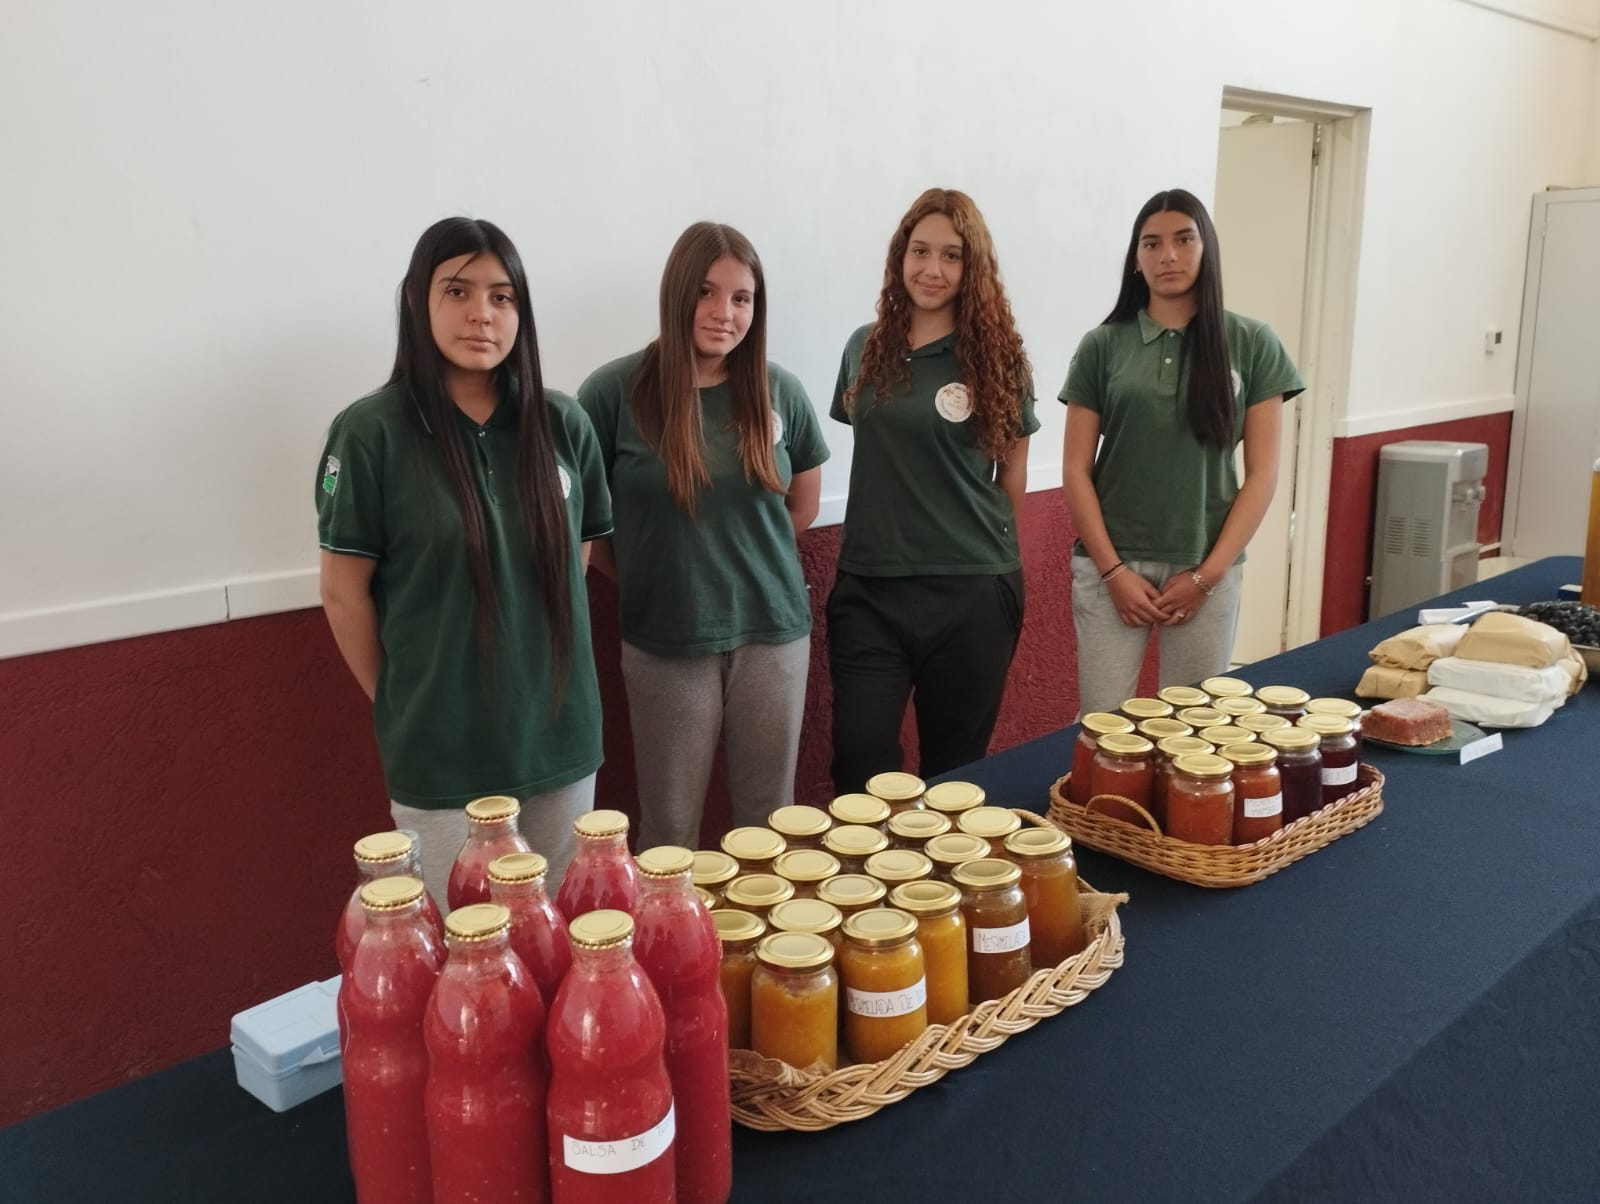
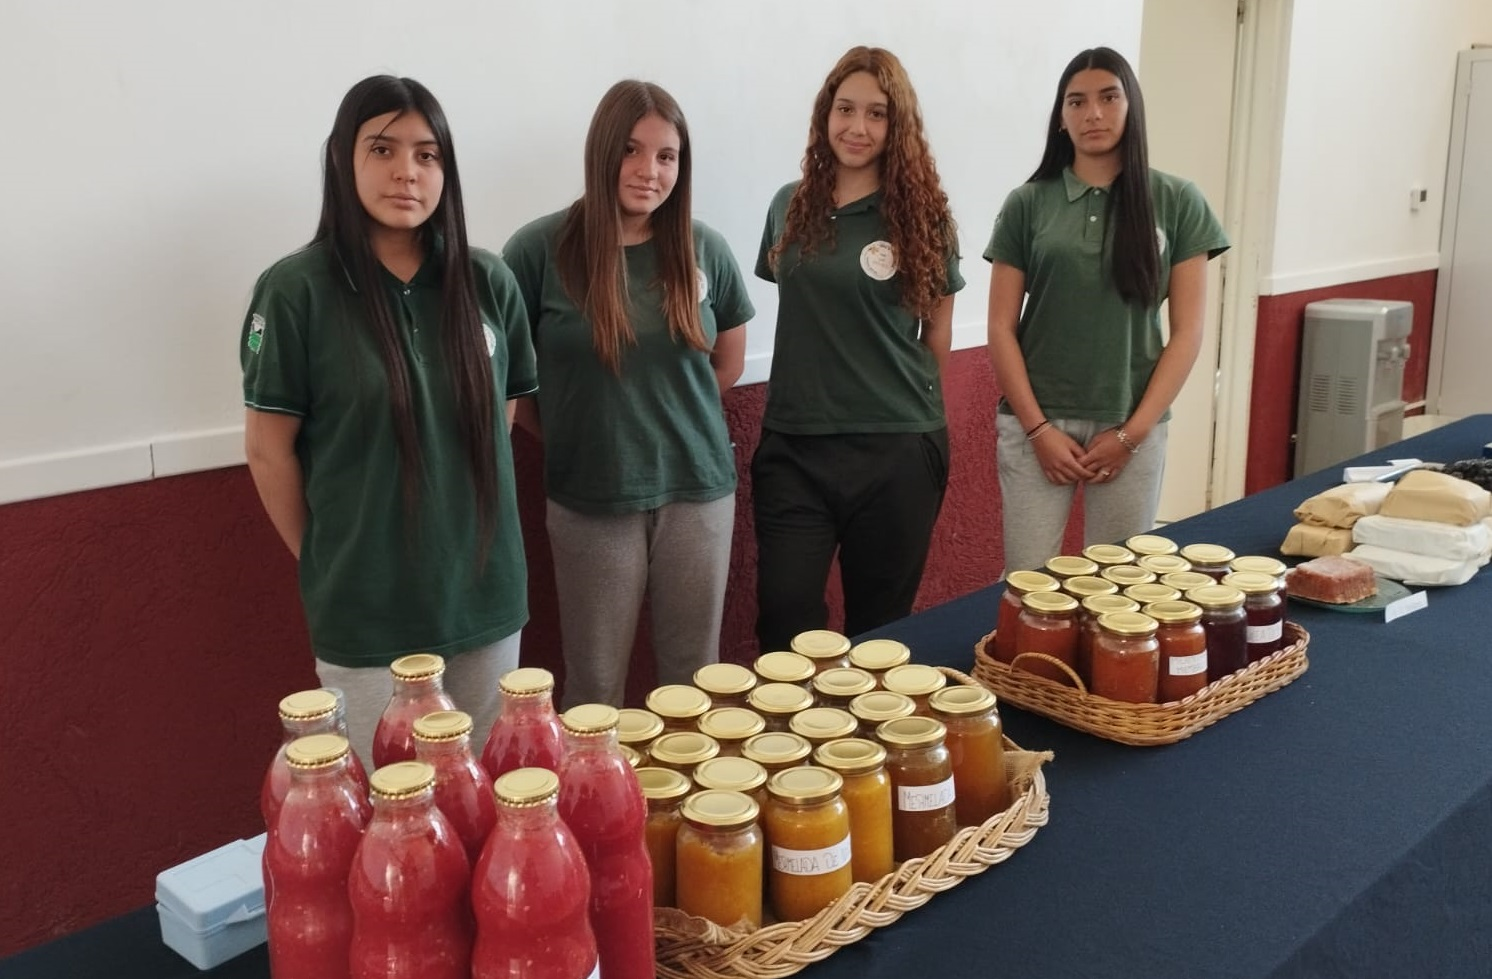
foto ver cómo se ve

diff --git a/index.html b/index.html
@@ -50,7 +50,7 @@
         <div class="hero-content">
             <div class="carousel">
                 <div class="carousel-itemm">
-                    <img src="/assets/images/feria.jpeg" alt="Image 1">
+                    <img src="/assets/images/WhatsApp Image 2024-09-14 at 10.29.30 (1).jpeg" alt="Image 1">
                     <div class="carousel-content">
                         <h1>Una formación en la vida y para la vida</h1>
                         <a href="#conocenos"><button class="button">Conócenos</button></a>                    </div>
